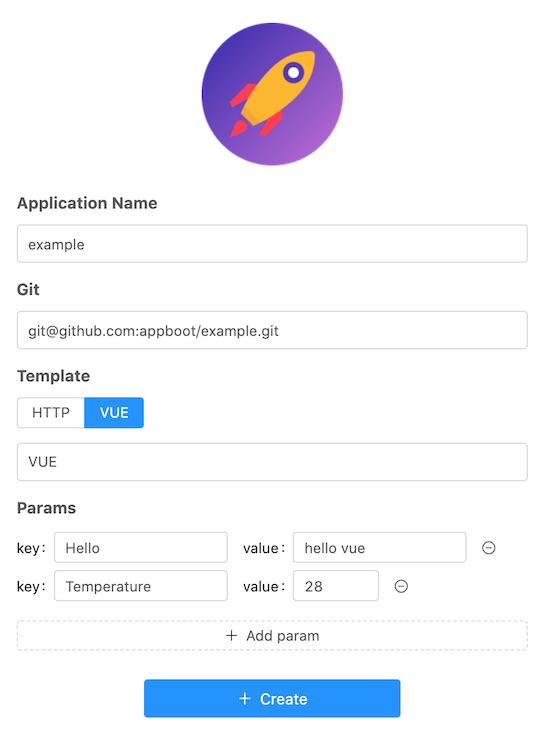
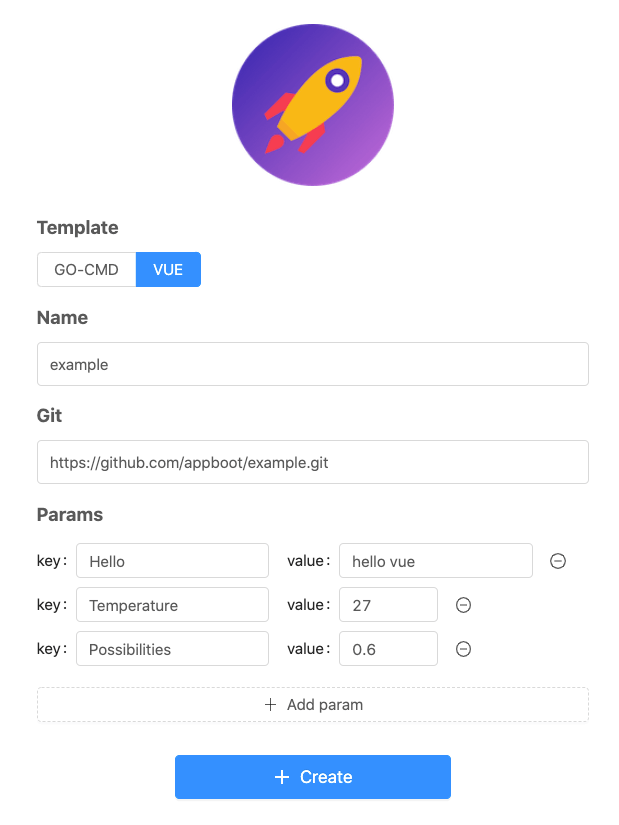
refactor: move template to first

diff --git a/frontend/src/App.vue b/frontend/src/App.vue
@@ -6,7 +6,14 @@
     </div>
 
     <div id="detial" v-if="!finish">
-      <div class="title">Application Name</div>
+      <div class="title">Template</div>
+      <div v-if="templates.length > 0">
+        <a-radio-group class="radio" v-model="template" buttonStyle="solid" @change="onTemplateChange">
+          <a-radio-button v-for="(t, index) in templates" :key="index" :value=t>{{t}}</a-radio-button>
+        </a-radio-group>
+      </div>
+
+      <div class="title">Name</div>
       <a-input
         class="input"
         placeholder="your application name"
@@ -15,15 +22,7 @@
       />
       
       <div class="title">Git</div>
-      <a-input class="input" placeholder v-model="git" @change="onGitChange" />
-
-      <div class="title">Template</div>
-      <div v-if="templates.length > 0">
-        <a-radio-group class="radio" v-model="template" buttonStyle="solid" @change="onTemplateChange">
-          <a-radio-button v-for="(t, index) in templates" :key="index" :value=t>{{t}}</a-radio-button>
-        </a-radio-group>
-      </div>
-      <a-input class="input" placeholder="" v-model="template" @change="onTemplateChange" />
+      <a-input class="input" placeholder v-model="git" @change="onGitChange" />      
 
       <div class="title">Params</div>
       <a-form layout="inline" style="margin-bottom: 15px">
